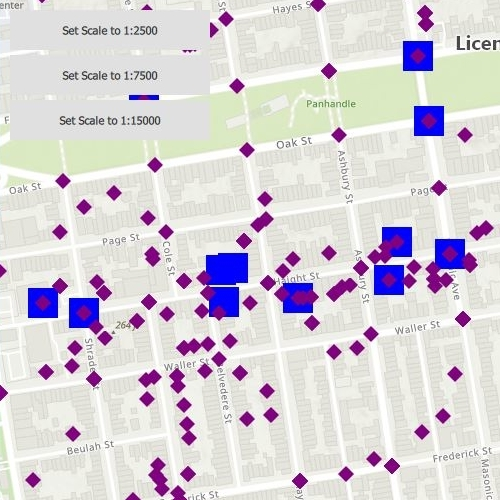
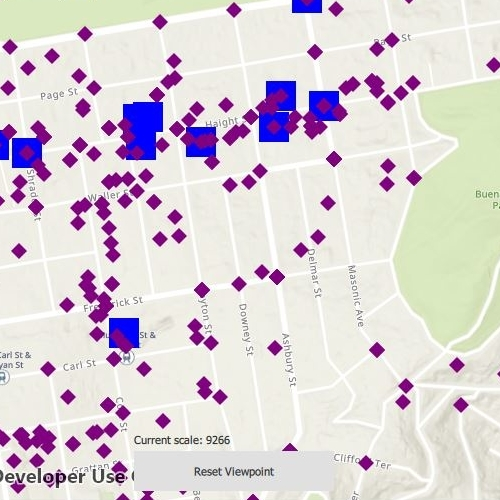
Update readme and screenshot

diff --git a/ArcGISRuntimeSDKQt_CppSamples/Layers/ApplyUniqueValuesWithAlternateSymbols/ApplyUniqueValuesWithAlternateSymbols.cpp b/ArcGISRuntimeSDKQt_CppSamples/Layers/ApplyUniqueValuesWithAlternateSymbols/ApplyUniqueValuesWithAlternateSymbols.cpp
@@ -142,11 +142,9 @@ void ApplyUniqueValuesWithAlternateSymbols::resetViewpoint()
 {
   if(m_mapView)
   {
-    //    m_mapView->setViewpointScale(scale);
-        Viewpoint vpCenter = Viewpoint(Point(-13631205.660131, 4546829.846004, SpatialReference::webMercator()), 25000);
-      m_mapView->setViewpoint(vpCenter, 5);
+    Viewpoint vpCenter = Viewpoint(Point(-13631205.660131, 4546829.846004, SpatialReference::webMercator()), 25000);
+    m_mapView->setViewpoint(vpCenter, 5);
   }
-
 }
 
 double ApplyUniqueValuesWithAlternateSymbols::currentScale() const

diff --git a/ArcGISRuntimeSDKQt_CppSamples/Layers/ApplyUniqueValuesWithAlternateSymbols/README.md b/ArcGISRuntimeSDKQt_CppSamples/Layers/ApplyUniqueValuesWithAlternateSymbols/README.md
@@ -12,7 +12,7 @@ Once scale ranges are applied to unique values, you can further refine the appea
 
 ## How to use the sample
 
-From the UI, select one of the predetermined scales (1:2500, 1:7500 or 1:15000) to view the point symbology at that scale in different colors and geometries which is dependent on the scale. In addition to using the predetermined buttons, you can also manually zoom in an out of the map to see alternate symbols in action dynamically.
+Zoom in and out of the map to see alternate symbols at each scale. To go back to the initial viewpoint, press "Reset Viewpoint".
 
 ## How it works
 

diff --git a/ArcGISRuntimeSDKQt_QMLSamples/Layers/ApplyUniqueValuesWithAlternateSymbols/README.md b/ArcGISRuntimeSDKQt_QMLSamples/Layers/ApplyUniqueValuesWithAlternateSymbols/README.md
@@ -12,7 +12,7 @@ Once scale ranges are applied to unique values, you can further refine the appea
 
 ## How to use the sample
 
-From the UI, select one of the predetermined scales (1:2500, 1:7500 or 1:15000) to view the point symbology at that scale in different colors and geometries which is dependent on the scale. In addition to using the predetermined buttons, you can also manually zoom in an out of the map to see alternate symbols in action dynamically.
+Zoom in and out of the map to see alternate symbols at each scale. To go back to the initial viewpoint, press "Reset Viewpoint".
 
 ## How it works
 
